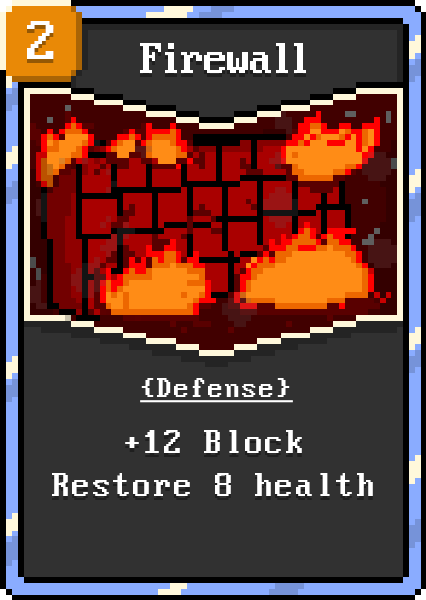
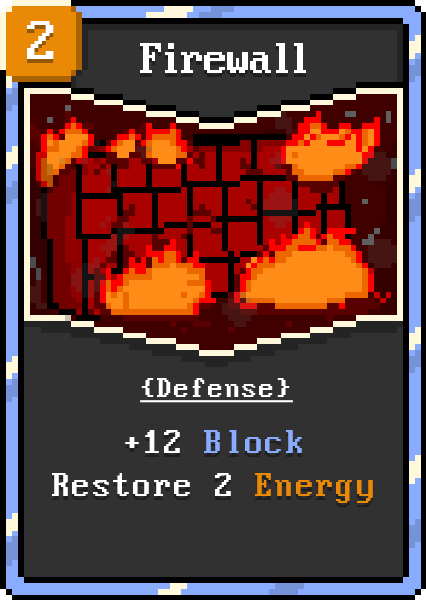
firewall fix, segfault added

Changed region(s): [[0.4577, 0.72, 0.885, 0.84]]

diff --git a/src/Cards/CardClasses/Segfault.java b/src/Cards/CardClasses/Segfault.java
@@ -7,10 +7,10 @@ import main.ArtLoader;
 
 import java.awt.image.BufferedImage;
 
-public class Firewall extends Card
+public class Segfault extends Card
 {
 
-    public Firewall(String name, String type, int energyCost, BufferedImage sprite, CardHandler CH)
+    public Segfault(String name, String type, int energyCost, BufferedImage sprite, CardHandler CH)
     {
         super(name, type, energyCost, sprite, CH);
     }
@@ -20,8 +20,9 @@ public class Firewall extends Card
     {
         System.out.println(CH.energy + " energy remaining");
         CH.energy -= energyCost;
-        CH.energy += 2;
-        player.health += 7;
-        ArtLoader.playSound(ArtLoader.shieldSound, -18);
+        player.health -= 15;
+        CH.cardAmount +=1;
+        System.out.println(CH.cardAmount);
+        ArtLoader.playSound(ArtLoader.attackSound, -23);
     }
 }

diff --git a/src/Cards/CardHandler.java b/src/Cards/CardHandler.java
@@ -20,16 +20,18 @@ public class CardHandler
     TurnHandler turnH;
     Entity player;
     Entity enemy;
+    public int cardAmount = 6;
 
     int hoveredCard = -1;
     double hoverAmount = 22 * GamePanel.scaleWindow; //in pixels
     boolean debugBoundBox;
 
-    public CardHandler(Entity player, Entity enemy, LevelHandler LH)
+    public CardHandler(Entity player, Entity enemy, LevelHandler LH, int cardAmount)
     {
         this.player = player;
         this.enemy = enemy;
         this.turnH = LH.turnH;
+        this.cardAmount = cardAmount;
     }
 
     public int calculateCardX(int i)
@@ -72,7 +74,7 @@ public class CardHandler
         }
     }
 
-    public void buildDeck(int cardAmount)
+    public void buildDeck()
     {
         for (int i = 0; i < cardAmount; i++)
         {

diff --git a/src/main/ArtLoader.java b/src/main/ArtLoader.java
@@ -21,6 +21,7 @@ public class ArtLoader
     public static BufferedImage infiniteArt;
     public static BufferedImage firewallArt;
     public static BufferedImage memoryArt;
+    public static BufferedImage segfaultArt;
 
     public static Clip shieldSound;
     public static Clip cardHover;
@@ -41,6 +42,7 @@ public class ArtLoader
             infiniteArt = ImageIO.read(new File("cardAssets/infinite.png"));
             firewallArt = ImageIO.read(new File("cardAssets/firewall.png"));
             memoryArt = ImageIO.read(new File("cardAssets/memory.png"));
+            segfaultArt = ImageIO.read(new File("cardAssets/segfault.png"));
 
             cardHover = loadSound("SoundEffects/cardHover.wav");
             attackSound = loadSound("SoundEffects/attack.wav");

diff --git a/src/Cards/CardInitializer.java b/src/Cards/CardInitializer.java
@@ -18,6 +18,7 @@ public class CardInitializer
         allCards.add(new Infinite("Infinite Loop", "Attack", 2, ArtLoader.infiniteArt, CH));
         allCards.add(new Memory("Memory Leak", "Attack", 1, ArtLoader.memoryArt, CH));
         allCards.add(new Firewall("Firewall", "Attack", 2, ArtLoader.firewallArt, CH));
+        allCards.add(new Segfault("Segfault", "Bug", 1, ArtLoader.segfaultArt, CH));
     }
 
     public Card randomCard()

diff --git a/src/main/TurnHandler.java b/src/main/TurnHandler.java
@@ -67,7 +67,7 @@ public class TurnHandler
         playerTurn = true;
         LH.currentLevel.CH.energy = LH.currentLevel.energyReplenishAmount;
         LH.currentLevel.CH.hand.clear();
-        LH.currentLevel.CH.buildDeck(6);
+        LH.currentLevel.CH.buildDeck();
     }
 
     public void renderOpponentDecision(Graphics2D g2, Font font, int x, int y)

diff --git a/src/Level/Level2.java b/src/Level/Level2.java
@@ -38,7 +38,7 @@ public class Level2 extends BaseLevel
         enemy = new Entity(500, 500, 50, "C-Plus-Plus");
         enemyAI = new Enemy2(player, enemy, LevelH);
 
-        CH = new CardHandler(player, enemy, LevelH);
+        CH = new CardHandler(player, enemy, LevelH,6 );
 
         turnH.endEnemyTurn();
 

diff --git a/src/Level/Level1.java b/src/Level/Level1.java
@@ -41,7 +41,7 @@ public class Level1 extends BaseLevel
         enemy = new Entity(250, 250, 50, "Python");
         enemyAI = new Enemy1(player, enemy, LevelH);
 
-        CH = new CardHandler(player, enemy, LevelH);
+        CH = new CardHandler(player, enemy, LevelH, 6);
 
         turnH.endEnemyTurn();
 
